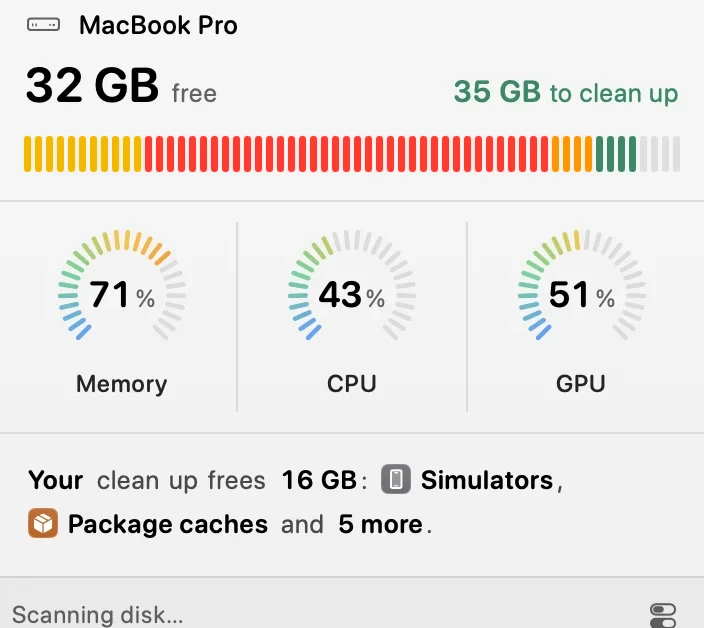
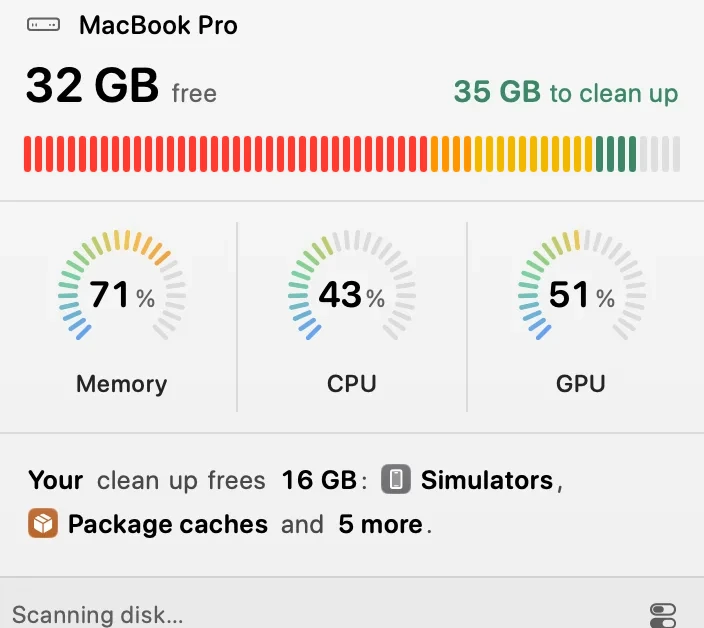
Levo demo: round 14 (bar order, progress, sober Auto mode, 17 pt mark)
- The disk bar runs in macOS's order: Your Data, Apps, System Data, Ready
  to free, Free; the tile pictures rebuilt in that order.
- The status line counts up: "Scanning disk… 62%", then "Analysing… 40%";
  "Checked just now" analyses on a click.
- Auto mode stays sober: plain orange text, no icon before it in the
  sentence, and the app's own symbol in Settings and Control Centre.
- The menubar mark is 17 pt wide, as the app's.
- Phone stills re-rendered.

Changed region(s): [[0.5938, 0.2118, 0.8438, 0.2723], [0.0312, 0.2118, 0.2188, 0.2723]]

diff --git a/levo/img/symbols/symbols.js b/levo/img/symbols/symbols.js
@@ -13,6 +13,7 @@ window.LEVO_SYMBOLS = {
   "arrow.counterclockwise": { w: 17, h: 20, body: "<path d=\"M 8.29 18.61 C 12.11 18.61 15.19 15.51 15.19 11.71 C 15.19 7.89 12.11 4.81 8.29 4.81 C 7.46 4.81 6.66 4.96 5.95 5.23 C 5.73 5.31 5.44 5.45 5.44 5.85 C 5.45 6.34 5.92 6.57 6.32 6.41 C 6.94 6.18 7.61 6.05 8.29 6.05 C 11.41 6.05 13.94 8.58 13.94 11.7 C 13.94 14.82 11.41 17.33 8.29 17.33 C 5.18 17.33 2.65 14.82 2.65 11.7 C 2.65 11.35 2.37 11.07 2.02 11.07 C 1.68 11.07 1.39 11.35 1.39 11.7 C 1.39 15.51 4.48 18.61 8.29 18.61 Z M 6.18 5.75 L 9.03 2.91 C 9.14 2.8 9.2 2.63 9.2 2.46 C 9.2 2.11 8.93 1.82 8.59 1.82 C 8.39 1.82 8.24 1.9 8.13 2.01 L 4.91 5.28 C 4.79 5.41 4.71 5.58 4.71 5.74 C 4.71 5.93 4.77 6.08 4.91 6.22 L 8.13 9.45 C 8.25 9.56 8.39 9.63 8.58 9.63 C 8.93 9.63 9.2 9.36 9.2 9 C 9.2 8.84 9.14 8.68 9.02 8.56 Z M 6.18 5.75\" fill=\"currentColor\"/>" },
   "arrow.down.circle.fill": { w: 19, h: 19, body: "<path d=\"M 17.33 9.64 C 17.33 14.03 13.75 17.61 9.36 17.61 C 4.97 17.61 1.39 14.03 1.39 9.64 C 1.39 5.25 4.97 1.68 9.36 1.68 C 13.75 1.68 17.33 5.25 17.33 9.64 Z M 8.72 6.21 L 8.72 10.72 L 8.77 11.93 L 8.3 11.44 L 7.08 10.13 C 6.97 10 6.79 9.94 6.64 9.94 C 6.3 9.94 6.05 10.18 6.05 10.5 C 6.05 10.68 6.12 10.81 6.25 10.93 L 8.91 13.49 C 9.07 13.65 9.2 13.7 9.37 13.7 C 9.54 13.7 9.67 13.65 9.84 13.49 L 12.49 10.93 C 12.62 10.81 12.68 10.68 12.68 10.5 C 12.68 10.18 12.43 9.94 12.1 9.94 C 11.94 9.94 11.77 10 11.66 10.13 L 10.43 11.44 L 9.98 11.92 L 10.01 10.72 L 10.01 6.21 C 10.01 5.86 9.73 5.58 9.37 5.58 C 9.02 5.58 8.72 5.86 8.72 6.21 Z M 8.72 6.21\" fill=\"currentColor\"/>" },
   "arrow.down.circle": { w: 19, h: 19, body: "<path d=\"M 17.33 9.64 C 17.33 14.04 13.76 17.61 9.36 17.61 C 4.97 17.61 1.39 14.04 1.39 9.64 C 1.39 5.24 4.97 1.68 9.36 1.68 C 13.76 1.68 17.33 5.24 17.33 9.64 Z M 2.73 9.64 C 2.73 13.31 5.69 16.28 9.36 16.28 C 13.03 16.28 16 13.31 16 9.64 C 16 5.97 13.03 3 9.36 3 C 5.69 3 2.73 5.97 2.73 9.64 Z M 9.99 6.3 L 9.99 10.7 L 9.95 11.86 L 10.39 11.39 L 11.58 10.11 C 11.69 9.99 11.85 9.93 12.01 9.93 C 12.32 9.93 12.57 10.16 12.57 10.48 C 12.57 10.64 12.5 10.77 12.39 10.89 L 9.81 13.37 C 9.66 13.53 9.52 13.58 9.36 13.58 C 9.2 13.58 9.07 13.53 8.91 13.37 L 6.34 10.89 C 6.21 10.77 6.15 10.64 6.15 10.48 C 6.15 10.16 6.39 9.93 6.71 9.93 C 6.86 9.93 7.04 9.99 7.14 10.11 L 8.33 11.39 L 8.78 11.87 L 8.74 10.7 L 8.74 6.3 C 8.74 5.98 9.03 5.7 9.36 5.7 C 9.7 5.7 9.99 5.98 9.99 6.3 Z M 9.99 6.3\" fill=\"currentColor\"/>" },
+  "arrow.triangle.2.circlepath": { w: 20, h: 19, body: "<path d=\"M 18.34 8.34 L 14.75 8.34 C 14.2 8.34 14.06 8.72 14.36 9.15 L 16.11 11.65 C 16.35 12 16.73 12.01 16.98 11.65 L 18.73 9.16 C 19.04 8.72 18.89 8.34 18.34 8.34 Z M 9.36 3 C 13.03 3 16 5.97 16 9.64 C 16 10 16.3 10.3 16.67 10.3 C 17.03 10.3 17.32 10 17.33 9.65 C 17.32 5.23 13.76 1.68 9.36 1.68 C 7.02 1.68 4.89 2.69 3.44 4.32 C 3.11 4.68 3.23 5.13 3.52 5.35 C 3.77 5.53 4.11 5.54 4.43 5.19 C 5.65 3.84 7.41 3 9.36 3 Z M 0.39 10.94 L 3.97 10.94 C 4.52 10.94 4.67 10.56 4.37 10.13 L 2.62 7.64 C 2.38 7.28 2 7.27 1.74 7.64 L 0 10.12 C -0.31 10.56 -0.17 10.94 0.39 10.94 Z M 9.36 16.28 C 5.69 16.28 2.73 13.31 2.73 9.64 C 2.73 9.29 2.42 8.98 2.06 8.98 C 1.7 8.98 1.4 9.28 1.39 9.63 C 1.4 14.05 4.97 17.61 9.36 17.61 C 11.71 17.61 13.83 16.59 15.29 14.96 C 15.61 14.61 15.5 14.16 15.2 13.94 C 14.96 13.76 14.61 13.74 14.3 14.09 C 13.07 15.44 11.31 16.28 9.36 16.28 Z M 9.36 16.28\" fill=\"currentColor\"/>" },
   "arrow.triangle.branch": { w: 19, h: 18, body: "<path d=\"M 3.92 5.74 L 6.02 2.84 C 6.34 2.4 6.12 2.05 5.6 2.04 L 2.55 1.99 C 2.13 1.98 1.89 2.29 2.04 2.71 L 3.02 5.57 C 3.19 6.08 3.59 6.19 3.92 5.74 Z M 8.52 15.93 C 8.52 16.31 8.82 16.61 9.18 16.61 C 9.55 16.61 9.85 16.31 9.85 15.93 L 9.85 11.38 C 9.85 7.95 7.93 4.98 4.55 3.14 C 4.14 2.91 3.78 3.13 3.63 3.44 C 3.5 3.73 3.55 4.11 3.9 4.31 C 6.89 5.94 8.52 8.46 8.52 11.38 Z M 14.45 5.74 C 14.77 6.19 15.18 6.08 15.34 5.57 L 16.32 2.71 C 16.48 2.29 16.23 1.98 15.81 1.99 L 12.76 2.04 C 12.24 2.05 12.02 2.4 12.34 2.84 Z M 9.85 15.93 L 9.85 11.38 C 9.85 8.46 11.48 5.94 14.47 4.31 C 14.82 4.11 14.87 3.73 14.74 3.44 C 14.59 3.13 14.23 2.91 13.82 3.14 C 10.44 4.98 8.52 7.95 8.52 11.38 L 8.52 15.93 C 8.52 16.31 8.82 16.61 9.18 16.61 C 9.55 16.61 9.85 16.31 9.85 15.93 Z M 9.85 15.93\" fill=\"currentColor\"/>" },
   "arrow.up.forward.app": { w: 19, h: 18, body: "<path d=\"M 15.29 3.32 C 16.02 4.03 16.39 5.1 16.39 6.46 L 16.39 12.35 C 16.39 13.72 16.02 14.79 15.29 15.5 C 14.58 16.21 13.52 16.61 12.14 16.61 L 6.25 16.61 C 4.88 16.61 3.8 16.21 3.1 15.5 C 2.38 14.79 1.99 13.72 1.99 12.35 L 1.99 6.46 C 1.99 5.1 2.38 4.02 3.1 3.32 C 3.8 2.61 4.88 2.21 6.25 2.21 L 12.14 2.21 C 13.52 2.21 14.57 2.6 15.29 3.32 Z M 6.25 3.47 C 5.27 3.47 4.51 3.75 4.02 4.23 C 3.52 4.73 3.25 5.48 3.25 6.46 L 3.25 12.35 C 3.25 13.34 3.52 14.08 4.02 14.59 C 4.52 15.07 5.27 15.35 6.25 15.35 L 12.14 15.35 C 13.11 15.35 13.88 15.06 14.37 14.59 C 14.87 14.08 15.14 13.34 15.14 12.35 L 15.14 6.46 C 15.14 5.48 14.87 4.73 14.37 4.23 C 13.87 3.75 13.11 3.47 12.14 3.47 Z M 12.22 7.04 L 12.22 10.72 C 12.22 11.08 11.99 11.34 11.65 11.34 C 11.3 11.34 11.07 11.1 11.07 10.73 L 11.07 9.38 L 11.2 8.14 L 10.07 9.36 L 7.19 12.24 C 7.09 12.35 6.93 12.42 6.75 12.42 C 6.41 12.42 6.18 12.19 6.18 11.84 C 6.18 11.68 6.25 11.53 6.36 11.42 L 9.24 8.54 L 10.48 7.39 L 9.3 7.53 L 7.88 7.53 C 7.51 7.53 7.27 7.3 7.27 6.96 C 7.27 6.62 7.5 6.39 7.86 6.39 L 11.57 6.39 C 11.97 6.39 12.22 6.57 12.22 7.04 Z M 12.22 7.04\" fill=\"currentColor\"/>" },
   "arrow.up.left.and.arrow.down.right": { w: 19, h: 18, body: "<path d=\"M 3.43 6.64 L 3.2 2.9 L 6.94 3.13 L 7.59 3.13 C 8 3.13 8.32 2.84 8.32 2.42 C 8.32 2 8 1.7 7.59 1.7 L 3.25 1.7 C 2.46 1.7 1.99 2.16 1.99 2.96 L 1.99 7.29 C 1.99 7.7 2.29 8.01 2.71 8.01 C 3.13 8.01 3.43 7.71 3.43 7.29 Z M 3.65 2.46 C 2.97 1.82 2.13 2.7 2.75 3.36 L 5.32 6.07 L 7.72 8.49 C 7.86 8.64 8.03 8.7 8.22 8.7 C 8.66 8.7 8.99 8.41 8.99 7.97 C 8.99 7.76 8.92 7.57 8.78 7.43 L 6.37 5.02 Z M 15.45 11.67 L 15.67 15.39 L 11.94 15.17 L 11.28 15.17 C 10.87 15.17 10.54 15.47 10.54 15.88 C 10.54 16.3 10.86 16.61 11.28 16.61 L 15.61 16.61 C 16.41 16.61 16.88 16.14 16.88 15.35 L 16.88 11.01 C 16.88 10.61 16.57 10.29 16.16 10.29 C 15.75 10.29 15.45 10.59 15.45 11.01 Z M 15.21 15.84 C 15.91 16.48 16.74 15.61 16.12 14.94 L 13.55 12.23 L 11.15 9.81 C 11.02 9.67 10.84 9.6 10.64 9.6 C 10.2 9.6 9.88 9.89 9.88 10.34 C 9.88 10.54 9.95 10.73 10.09 10.87 L 12.5 13.28 Z M 15.21 15.84\" fill=\"currentColor\"/>" },

diff --git a/levo/demo.js b/levo/demo.js
@@ -405,17 +405,17 @@
 	// The disk in ticks. Each tick is wholly one category's colour, shared out by
 	// size with at least one tick for every category present (the app's rule):
 	// what's in use, then what a clean would free, in green, then free space.
-	// The app's five parts (Gauges.swift DiskPart): System Data, Your Data, Apps,
-	// Ready to free (what's ticked, in green) and Free. Unticked findings stay Your Data.
+	// The app's five parts in macOS's order (Gauges.swift DiskPart, round 14): Your Data, Apps,
+	// System Data, Ready to free (what's ticked, in green) and Free. Unticked findings stay Your Data.
 	// macOS's own storage palette, without its grey: System Data yellow, Your Data red, Apps orange.
 	var PARTS = { system: ["#F2B800", "#FFD60A"], yourData: ["#FF3B30", "#FF453A"], apps: ["#FF9500", "#FF9F0A"] };
 	function segments() {
 		var unticked = readyGB() - tickedGB(), d = dark() ? 1 : 0;
 		var part = function (id) { return sum(S.disk.used.filter(function (u) { return (u.id === "system" ? "system" : u.id === "apps" ? "apps" : "yourData") === id; }), function (u) { return u.gb; }); };
 		var segs = [
-			{ id: "system", label: "System Data", gb: part("system"), color: PARTS.system[d] },
 			{ id: "yourData", label: "Your Data", gb: part("yourData") + unticked, color: PARTS.yourData[d] },
-			{ id: "apps", label: "Apps", gb: part("apps"), color: PARTS.apps[d] }
+			{ id: "apps", label: "Apps", gb: part("apps"), color: PARTS.apps[d] },
+			{ id: "system", label: "System Data", gb: part("system"), color: PARTS.system[d] }
 		];
 		var t = tickedGB();
 		if (t > 0) segs.push({ id: "can", label: "Ready to free", gb: t, color: "var(--lv-ready)" });
@@ -668,7 +668,7 @@
 		$("[data-plabel]").textContent = p.label;
 		$("[data-pcaps]").innerHTML = caps(p.keys, "lv-cap-sm");
 		btn.disabled = !p.act;
-		if (!toastTimer) $("[data-actleft]").innerHTML = '<span class="lv-checked">' + (S.analysing ? "Checking" : "Checked just now") + "</span>";
+		if (!toastTimer) $("[data-actleft]").innerHTML = S.analysing ? "" : '<button type="button" class="lv-checked" data-act="analyse">Checked just now</button>';
 	}
 
 	function renderMenubar() {
@@ -1240,10 +1240,21 @@
 		S.undo = null;
 		clearTimeout(toastTimer);
 		toastTimer = 1;
-		$("[data-actleft]").innerHTML = '<span class="lv-toast">Asking ' + esc(S.agent) + "…</span>";
 		renderDisk(S.freeShown);
 		renderGroups();
-		later(regrow, 1700);
+		// The status line counts up, as the app's (round 14): "Scanning disk… 62%", then "Analysing… 40%".
+		progressLine("Scanning disk…", REDUCED ? 1 : 700, function () {
+			progressLine("Analysing…", REDUCED ? 1 : 1100, regrow);
+		});
+	}
+	function progressLine(title, ms, done) {
+		var el = $("[data-actleft]"), t0 = performance.now(), last = -1;
+		var step = function (t) {
+			var pct = Math.min(100, Math.floor((t - t0) / ms * 100));
+			if (pct !== last) { last = pct; el.innerHTML = '<span class="lv-toast">' + esc(title) + (pct > 0 ? " " + pct + "%" : "") + "</span>"; }
+			if (pct < 100) requestAnimationFrame(step); else done();
+		};
+		requestAnimationFrame(step);
 	}
 	function regrow() {
 		var base = fresh(), from = S.disk.free;

diff --git a/levo/demo.css b/levo/demo.css
@@ -155,7 +155,8 @@ html.dark .lv-mb-levo:hover, html.dark .lv-mb-levo.is-open { background: rgba(25
 .lv-mb-levo.is-out { opacity: .45; }
 .lv-mb-levo.is-snap { transition: transform .5s cubic-bezier(.2, 1.5, .4, 1); }
 .lv-mark { display: block; flex-shrink: 0; }
-.lv-mb-mark { width: 19px; height: 12.2px; overflow: visible; }
+/* 17 pt wide, as the app's menubar mark since round 14. */
+.lv-mb-mark { width: 17px; height: 10.87px; overflow: visible; }
 .lv-mb-mark path { fill: none; stroke: currentColor; stroke-width: 1.5px; transition: fill .3s; }
 .lv-mb-levo[data-state="ready"] .lv-mb-mark path,
 .lv-mb-levo[data-state="alert"] .lv-mb-mark path { fill: currentColor; stroke: none; }
@@ -1112,3 +1113,6 @@ html.dark .lv-bsheet { box-shadow: 0 0 0 1px rgb(var(--fg) / 0.1), 0 -4px 16px r
 html.dark .lv-scene .lv-auto { color: #FF9217; }
 .lv-auto[hidden] { display: none; }
 .lv-auto:not([hidden]) { animation: lv-in .25s var(--ease-out); }
+
+/* "Checked just now" analyses on a click, with no other look (round 12). */
+.lv-scene .lv-checked { padding: 0; border: 0; background: none; font: inherit; font-size: 12px; color: inherit; cursor: pointer; }

diff --git a/levo/settings.js b/levo/settings.js
@@ -15,7 +15,7 @@
 		general: { title: "General", symbol: "gearshape.fill", tint: ["#8E8E93", "#8E8E93"] },
 		agent: { title: "Agent", symbol: "apple.terminal.fill", tint: ["#6A3DEC", "#A485FF"], header: true, sw: "analyse" },
 		protected: { title: "Protected", symbol: "checkmark.shield.fill", tint: ["#138AF2", "#56C2FF"], header: true },
-		autoClean: { title: "Auto mode", symbol: "wand.and.stars", tint: ["#C75D07", "#FF9217"], header: true, sw: "autoClean" },
+		autoClean: { title: "Auto mode", symbol: "arrow.triangle.2.circlepath", tint: ["#C75D07", "#FF9217"], header: true, sw: "autoClean" },
 		access: { title: "Access", symbol: "lock.fill", tint: ["#5E6AD2", "#5E6AD2"] },
 		disk: { title: "Disk", symbol: "internaldrive.fill", tint: ["#1F7AE0", "#1F7AE0"], header: true, sw: "diskWatch" },
 		memory: { title: "Memory", symbol: "memorychip.fill", tint: ["#F8A300", "#FFC531"], header: true, sw: "memWatch" },

diff --git a/levo/menus.js b/levo/menus.js
@@ -1082,7 +1082,7 @@
 				'<div class="lvm-cc-mod lvm-cc-wide"><b>Sound</b><div class="lvm-cc-sound">' + slider("vol", "speaker.wave.2.fill", "Volume") +
 					'<span class="lvm-cc-air">' + sym("airplayaudio", 14) + "</span></div></div>" +
 				(hook("auto") ? '<button type="button" class="lvm-cc-mod lvm-cc-tile lvm-cc-auto" data-lvm-cc="auto" aria-pressed="' + !!call("auto") + '">' +
-					'<span class="lvm-cc-btn' + (call("auto") ? " is-on" : "") + '">' + sym("gauge.with.dots.needle.67percent", 15) + '</span><span class="lvm-cc-txt"><b>Auto mode</b><small>' + (call("auto") ? "On" : "Off") + "</small></span></button>" : "") +
+					'<span class="lvm-cc-btn' + (call("auto") ? " is-on" : "") + '">' + sym("arrow.triangle.2.circlepath", 15) + '</span><span class="lvm-cc-txt"><b>Auto mode</b><small>' + (call("auto") ? "On" : "Off") + "</small></span></button>" : "") +
 			"</div>";
 	}
 	function ccToggle(key) {

diff --git a/levo/bento.js b/levo/bento.js
@@ -108,7 +108,7 @@
 		el.classList.toggle("is-freed", x >= DROP);
 		el.classList.toggle("is-low", x < DROP && v < AUTO.limit + 2);
 		var n = Math.round((v / AUTO.total) * AUTO.ticks * 2.4), ticks = el.querySelectorAll("[data-autoticks] i");
-		for (var i = 0; i < ticks.length; i++) ticks[i].className = i >= ticks.length - n ? "is-free" : i < 8 ? "is-sys" : i < 30 ? "is-data" : "is-apps";
+		for (var i = 0; i < ticks.length; i++) ticks[i].className = i >= ticks.length - n ? "is-free" : i < 22 ? "is-data" : i < 30 ? "is-apps" : "is-sys";
 	}
 	function autoPlay(t) {
 		var el = t.el, gen = t.gen, LOOP = 7600, HOLD = 1600;

diff --git a/levo/README.md b/levo/README.md
@@ -148,16 +148,20 @@ carries names, labels, numbers and the price only.
 The demo shows the app's Summary layout in round 13's order (PopoverView.swift):
 the Mac's name (with "Auto mode" in plain orange at its end while it's on), a
 divider, the gauges, a divider, free space, "to clean up" and the five-part
-disk bar (macOS's storage palette as the app: System Data yellow, Your Data
-red, Apps orange, Ready to free green, Free faint; only the green fills), a
+disk bar (macOS's order and palette as the app since round 14: Your Data red,
+Apps orange, System Data yellow, Ready to free green, Free faint; only the
+green fills), a
 divider, then "A balanced clean up frees 33 GB: Xcode build data, Simulators and
-4 more.", then the status line and the action bar. The level word is a menu (Careful, Balanced, Aggressive, Everything);
+4 more.", then the status line and the action bar. The status line counts up while it
+works ("Scanning disk… 62%", then "Analysing… 40%"), and "Checked just now"
+analyses on a click. The menubar mark is 17 pt wide, as the app's. The level word is a menu (Careful, Balanced, Aggressive, Everything);
 the amount, "4 more" and the empty space open the full breakdown, and the
 sentence holds still while ticking there. The Command K panel and every confirm
 are bottom sheets that grow the popover if needed. The Expanded lists are still
 in the code (the breakdown). The phone stills in img/shots are element
 screenshots of the popover at 3x, corners masked; re-render them when it changes. The disk, disk-tip and actions-base tiles had
-their bars recoloured in place to the app's new colours (by hue, keeping each
+their bars rebuilt in place in the app's new order and colours (each tick strip
+moved whole, so dimmed ticks stay dimmed, then recoloured by hue keeping each
 pixel's blend with the panel), since they are crops of older renders.
 
 ## Auto mode
